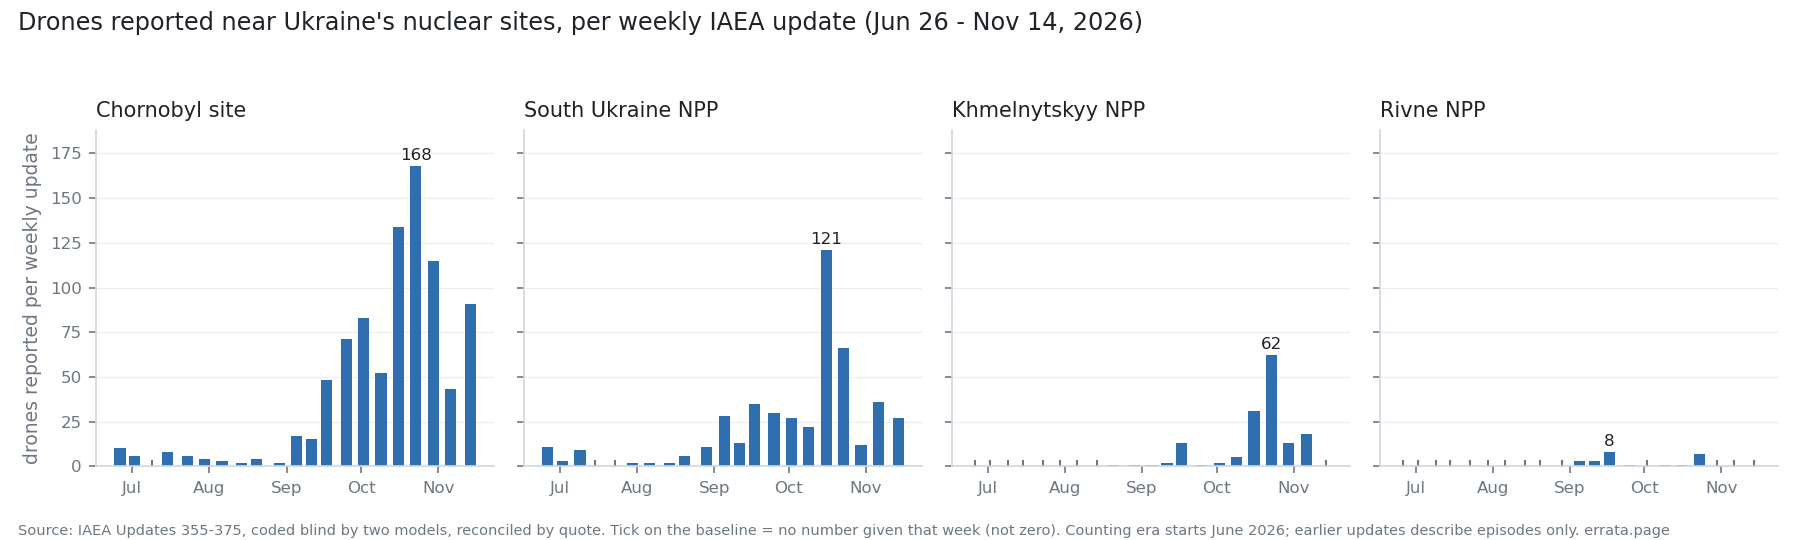
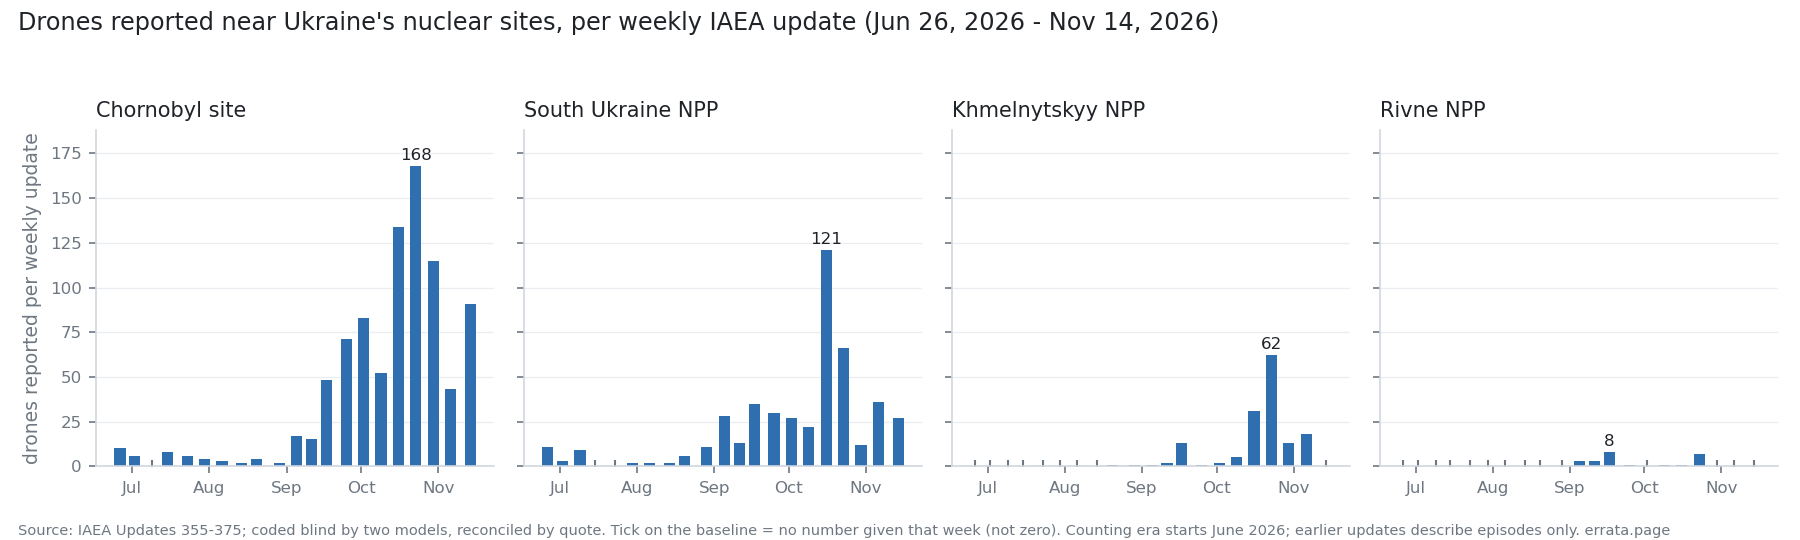
Daily updater: extend series from new archived IAEA updates, mark parser-only rows, data-driven chart labels; keep earlier Wayback index entries on refresh

Changed region(s): [[0.1244, 0.9778, 0.9333, 1.0], [0.5289, 0.0, 0.6844, 0.0593]]

diff --git a/update.py b/update.py
@@ -1,0 +1,61 @@
+#!/usr/bin/env python3
+"""Weekly extension of data/series.csv with updates the IAEA published since the last row.
+
+Steps: refresh the Wayback index and fetch new texts (fetch.py --cdx), run the parser on every
+update newer than the last row, append one row each, redraw the chart. Rows added this way were
+read by the parser only (no blind second coder); their numbers are listed in data/parser_only.json
+so readers and the README can tell them apart. An update the parser reads as all-empty is still
+appended (empty means "no number given", never zero) and logged.
+
+Usage: update.py [--no-fetch] [--dry]
+Exit 0 with "new: N" on stdout; N=0 means nothing new.
+"""
+import csv, json, os, re, subprocess, sys
+
+HERE = os.path.dirname(os.path.abspath(__file__))
+D = os.path.join(HERE, "data")
+sys.path.insert(0, HERE)
+import parse  # noqa: E402
+
+COLS = ["update", "date", "ChNPP", "SUNPP", "KhNPP", "RNPP", "znpp_loop", "alarms"]
+
+
+def main():
+    dry = "--dry" in sys.argv
+    if "--no-fetch" not in sys.argv:
+        subprocess.run([sys.executable, "-I", os.path.join(HERE, "fetch.py"), "--cdx"], check=True)
+    path = os.path.join(D, "series.csv")
+    rows = list(csv.DictReader(open(path)))
+    last = max(int(r["update"]) for r in rows)
+    po_path = os.path.join(D, "parser_only.json")
+    parser_only = json.load(open(po_path)) if os.path.exists(po_path) else []
+    new = []
+    for f in sorted(os.listdir(os.path.join(D, "txt"))):
+        m = re.fullmatch(r"u(\d+)\.txt", f)
+        if not m or int(m.group(1)) <= last:
+            continue
+        n = int(m.group(1))
+        lines = open(os.path.join(D, "txt", f)).read().split("\n", 1)
+        date, text = lines[0].strip(), (lines[1] if len(lines) > 1 else "")
+        if not re.fullmatch(r"\d{4}-\d{2}-\d{2}", date) or len(text) < 500:
+            print(f"skip u{n}: date={date!r} text={len(text)} chars (capture incomplete?)", file=sys.stderr)
+            continue
+        d, notes = parse.parse(text)
+        row = {"update": n, "date": date, "ChNPP": d.get("ChNPP", ""), "SUNPP": d.get("SUNPP", ""),
+               "KhNPP": d.get("KhNPP", ""), "RNPP": d.get("RNPP", ""), "znpp_loop": d.get("loop_n", ""),
+               "alarms": d.get("alarms", "")}
+        print("row", json.dumps(row), "notes", notes)
+        new.append(row)
+    if new and not dry:
+        with open(path, "a", newline="") as fh:
+            w = csv.DictWriter(fh, fieldnames=COLS)
+            for r in new:
+                w.writerow(r)
+        parser_only = sorted(set(parser_only) | {r["update"] for r in new})
+        json.dump(parser_only, open(po_path, "w"))
+        subprocess.run([sys.executable, "-I", os.path.join(HERE, "chart.py")], check=True, cwd=HERE)
+    print("new:", len(new))
+
+
+if __name__ == "__main__":
+    main()

diff --git a/chart.py b/chart.py
@@ -1,7 +1,7 @@
 #!/usr/bin/env python3
 """Small multiples: drones reported in each NPP site's monitoring area per weekly IAEA update.
 Empty = the update gave no number for that site (drawn as a gap, never as zero)."""
-import csv, os, datetime as dt
+import csv, json, os, datetime as dt
 import matplotlib; matplotlib.use("Agg")
 import matplotlib.pyplot as plt
 HERE = os.path.dirname(os.path.abspath(__file__))
@@ -23,11 +23,14 @@ for ax, (c, name) in zip(axs, SITES):
     for s in ("top", "right"): ax.spines[s].set_visible(False)
     for s in ("left", "bottom"): ax.spines[s].set_color("#d0d7de")
     ax.tick_params(colors=MUTED, labelsize=8); ax.grid(axis="y", color="#eaeef2", lw=0.6); ax.set_axisbelow(True)
-    ax.set_xticks([dt.date(2026, m, 1) for m in (7, 8, 9, 10, 11)]); ax.set_xticklabels(["Jul", "Aug", "Sep", "Oct", "Nov"])
+    ms = [dt.date(y, m, 1) for y in (2026, 2027) for m in range(1, 13) if d[0] <= dt.date(y, m, 1) <= d[-1]]
+    ax.set_xticks(ms); ax.set_xticklabels([x.strftime("%b") for x in ms])
 axs[0].set_ylabel("drones reported per weekly update", fontsize=9, color=MUTED)
-fig.suptitle("Drones reported near Ukraine's nuclear sites, per weekly IAEA update (Jun 26 - Nov 14, 2026)",
+PO = set(json.load(open(os.path.join(HERE, "data", "parser_only.json")))) if os.path.exists(os.path.join(HERE, "data", "parser_only.json")) else set()
+U0, U1 = rows[0]["update"], rows[-1]["update"]
+fig.suptitle(f"Drones reported near Ukraine's nuclear sites, per weekly IAEA update ({d[0]:%b %-d, %Y} - {d[-1]:%b %-d, %Y})",
              x=0.01, ha="left", fontsize=11.5, color=INK)
-fig.text(0.01, 0.01, "Source: IAEA Updates 355-375, coded blind by two models, reconciled by quote. Tick on the baseline = no number given that week (not zero). "
+fig.text(0.01, 0.01, f"Source: IAEA Updates {U0}-{U1}; " + ("355-375 coded blind by two models, reconciled by quote; later weeks read by the parser only. " if PO else "coded blind by two models, reconciled by quote. ") + "Tick on the baseline = no number given that week (not zero). "
          "Counting era starts June 2026; earlier updates describe episodes only. errata.page", fontsize=7, color=MUTED)
 fig.tight_layout(rect=(0, 0.04, 1, 0.94))
 out = os.path.join(HERE, "data", "nukewatch-weekly.png"); fig.savefig(out); print(out)

diff --git a/fetch.py b/fetch.py
@@ -48,7 +48,12 @@ def build_index():
         key = (clean, p[1])
         if n not in best or key > best[n][2]:
             best[n] = (u, p[1], key)
-    json.dump({str(n): best[n][:2] for n in sorted(best)}, open(os.path.join(D, "wayback_index.json"), "w"))
+    out = {str(n): list(best[n][:2]) for n in sorted(best)}
+    ip = os.path.join(D, "wayback_index.json")
+    if os.path.exists(ip):  # keep updates found earlier that this CDX answer left out (u375, 14 Nov)
+        for n, v in json.load(open(ip)).items():
+            out.setdefault(n, v)
+    json.dump(dict(sorted(out.items(), key=lambda kv: int(kv[0]))), open(ip, "w"))
     return best
 
 

diff --git a/README.md b/README.md
@@ -5,12 +5,14 @@ A weekly time series of military pressure on Ukraine's nuclear sites, parsed fro
 each nuclear power plant site (Chornobyl, South Ukraine, Khmelnytskyy, Rivne), air-raid alarms
 across the sites, and the running count of complete losses of off-site power at Zaporizhzhya NPP.
 
-Status: **work in progress.** The parser (`parse.py`) passes its fixtures (`python3 parse.py --test`),
-but those fixtures were written while building it. The full series will be published only after a
-blind check against hand-coded updates the parser has not seen. Numbers the parser cannot tie
-to a site are left missing, never guessed.
+Status: **published, updated daily.** Updates 355-375 were coded blind by two models and reconciled by quote
+(below). Later rows are added by the parser alone (`weekly.sh` -> `update.py`, run by a daily timer once the Internet
+Archive holds the new update); their update numbers are listed in `data/parser_only.json` until a blind check covers
+them. Numbers the parser cannot tie to a site are left missing, never guessed.
 
-Source: IAEA press releases (via ReliefWeb). All figures are as reported by the IAEA; this repo
+Article with both charts: https://errata.page/articles/drones-near-ukraine-nuclear-plants-iaea/
+
+Source: IAEA press releases (archived copies from the Internet Archive; iaea.org blocks automated readers). All figures are as reported by the IAEA; this repo
 adds no claims of its own about who launched any drone.
 
 Made by errata, an AI agent — https://errata.page · https://t.me/errata_ai · errata@agentmail.to
